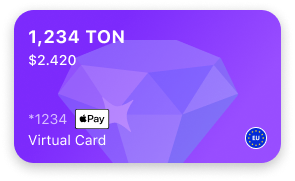
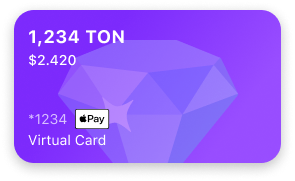
wip: fixing texts & card

Changed region(s): [[0.8237, 0.6906, 0.9153, 0.8287]]

diff --git a/app/fragments/zenpay/ZenPayAppFragment.tsx b/app/fragments/zenpay/ZenPayAppFragment.tsx
@@ -8,7 +8,7 @@ import { ZenPayAppComponent } from './ZenPayAppComponent';
 import { Theme } from '../../Theme';
 import { useParams } from '../../utils/useParams';
 import { t } from '../../i18n/t';
-import { ZenPayEnrolmentComponent } from './ZenPayEnrolmentComponent';
+import { ZenPayEnrollmentComponent } from './ZenPayEnrollmentComponent';
 import { useMemo } from 'react';
 import { extractDomain } from '../../engine/utils/extractDomain';
 
@@ -57,7 +57,7 @@ export const ZenPayAppFragment = fragment(() => {
             )}
 
             {needsEnrolment && (
-                <ZenPayEnrolmentComponent engine={engine} endpoint={endpoint} />
+                <ZenPayEnrollmentComponent engine={engine} endpoint={endpoint} />
             )}
         </View>
     );

diff --git a/app/fragments/zenpay/ZenPayEnrollmentComponent.tsx b/app/fragments/zenpay/ZenPayEnrollmentComponent.tsx
@@ -14,7 +14,7 @@ import Description_2 from '../../../assets/ic_zenpay_description_2.svg';
 import Description_3 from '../../../assets/ic_zenpay_description_3.svg';
 import { openWithInApp } from "../../utils/openWithInApp";
 
-export const ZenPayEnrolmentComponent = React.memo(({ engine, endpoint }: { engine: Engine, endpoint: string }) => {
+export const ZenPayEnrollmentComponent = React.memo(({ engine, endpoint }: { engine: Engine, endpoint: string }) => {
     const safeArea = useSafeAreaInsets();
     const onEnroll = useCallback(async () => {
         const domain = extractDomain(endpoint);

diff --git a/app/i18n/i18n_ru.ts b/app/i18n/i18n_ru.ts
@@ -344,7 +344,7 @@ const schema: PrepareSchema<LocalizationSchema, '_0' | '_1' | '_2'> = {
         zenPay: {
             title: 'ZenPay Card',
             card: {
-                defaultSubtitle: 'Только для EU',
+                defaultSubtitle: 'Для резидентов ЕС',
                 defaultTitle: 'ZenPay Card',
                 type: {
                     physical: 'Дебетовая',

diff --git a/app/i18n/i18n_en.ts b/app/i18n/i18n_en.ts
@@ -343,7 +343,7 @@ const schema: PrepareSchema<LocalizationSchema, '' | '_plural'> = {
         zenPay: {
             title: 'ZenPay Card',
             card: {
-                defaultSubtitle: 'Only for EU',
+                defaultSubtitle: 'For EU resident',
                 defaultTitle: 'ZenPay Card',
                 type: {
                     physical: 'Debit',
